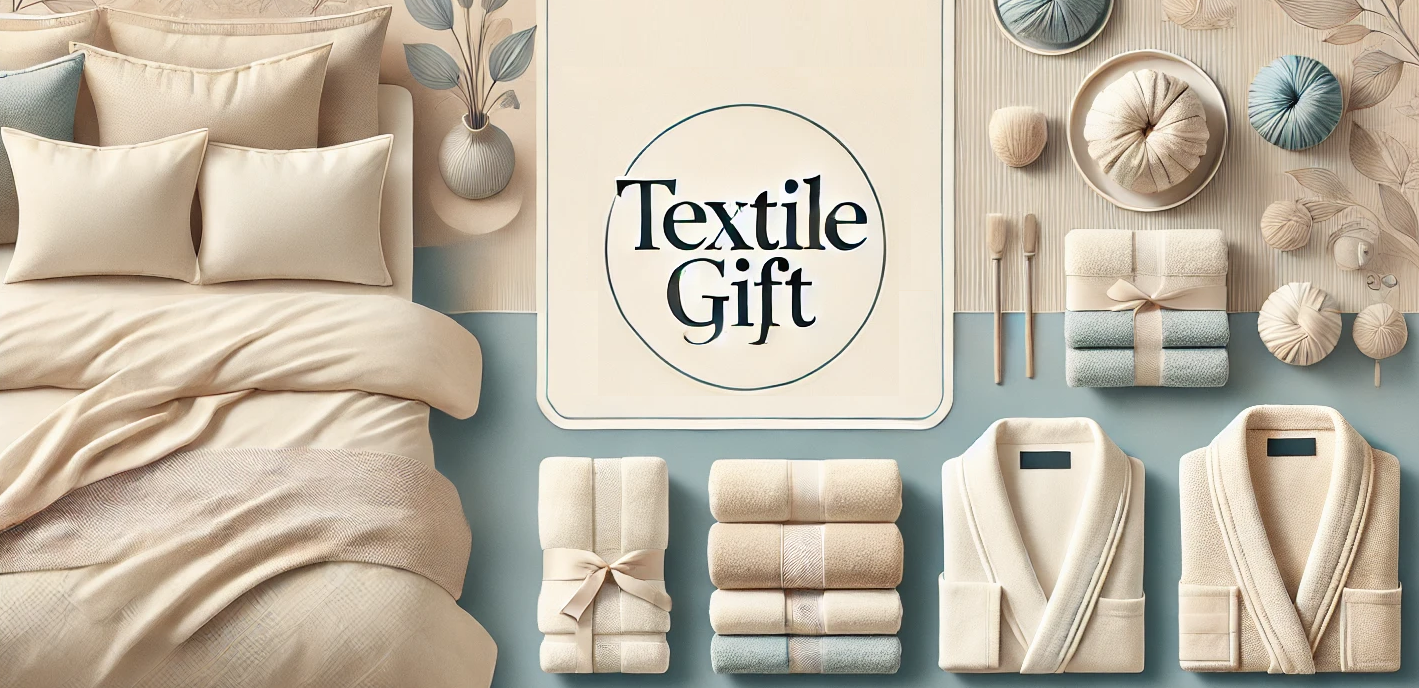
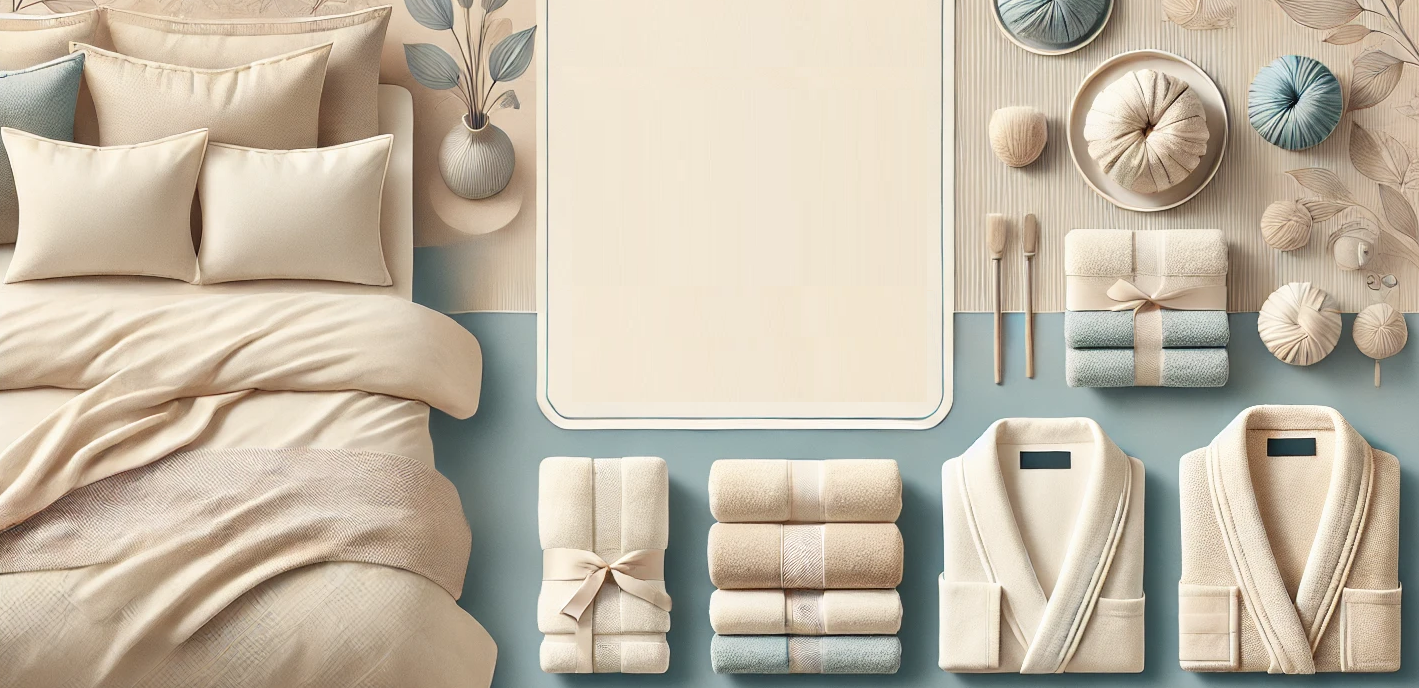
1

diff --git a/SimpleTask/index.html b/SimpleTask/index.html
@@ -5,7 +5,7 @@
     <meta name="viewport" content="width=device-width, initial-scale=1.0">
     <title>TextileGift</title>
     <link rel="stylesheet" href="style.css">
-    <img src="img/banner2.png" alt="Logo" class="logo">
+    <img src="img/banner4.png" alt="Logo" class="logo">
 </head>
 <body>
    
